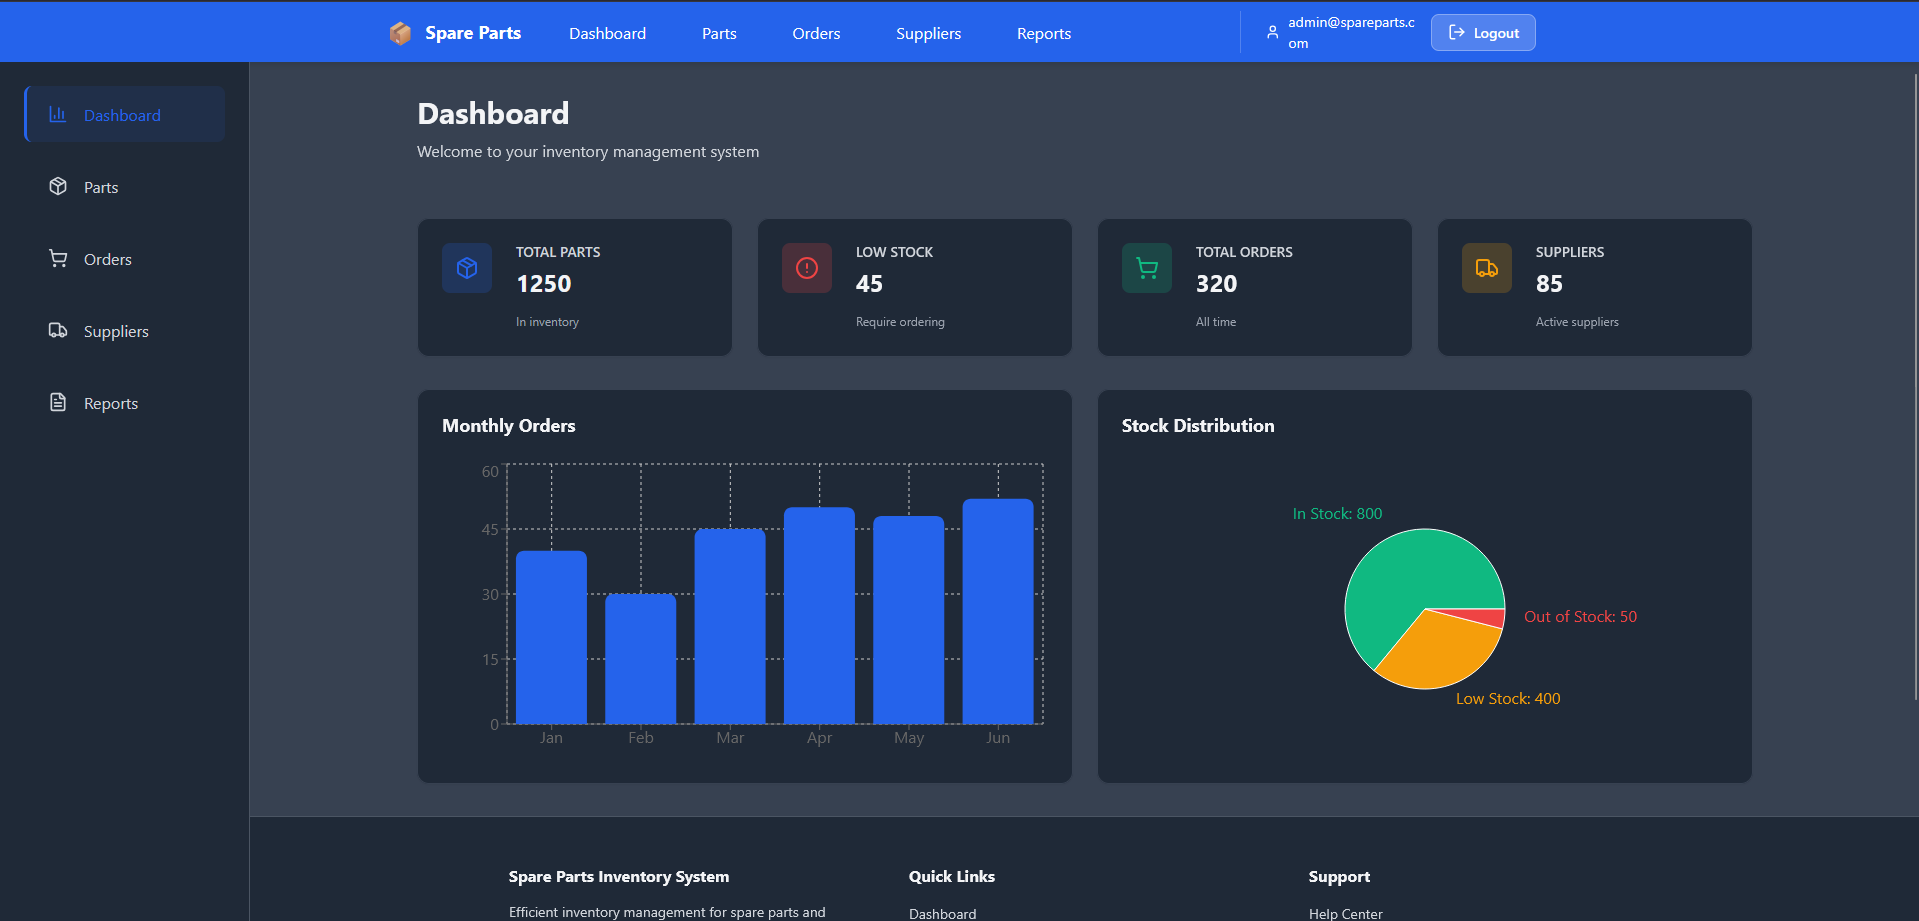
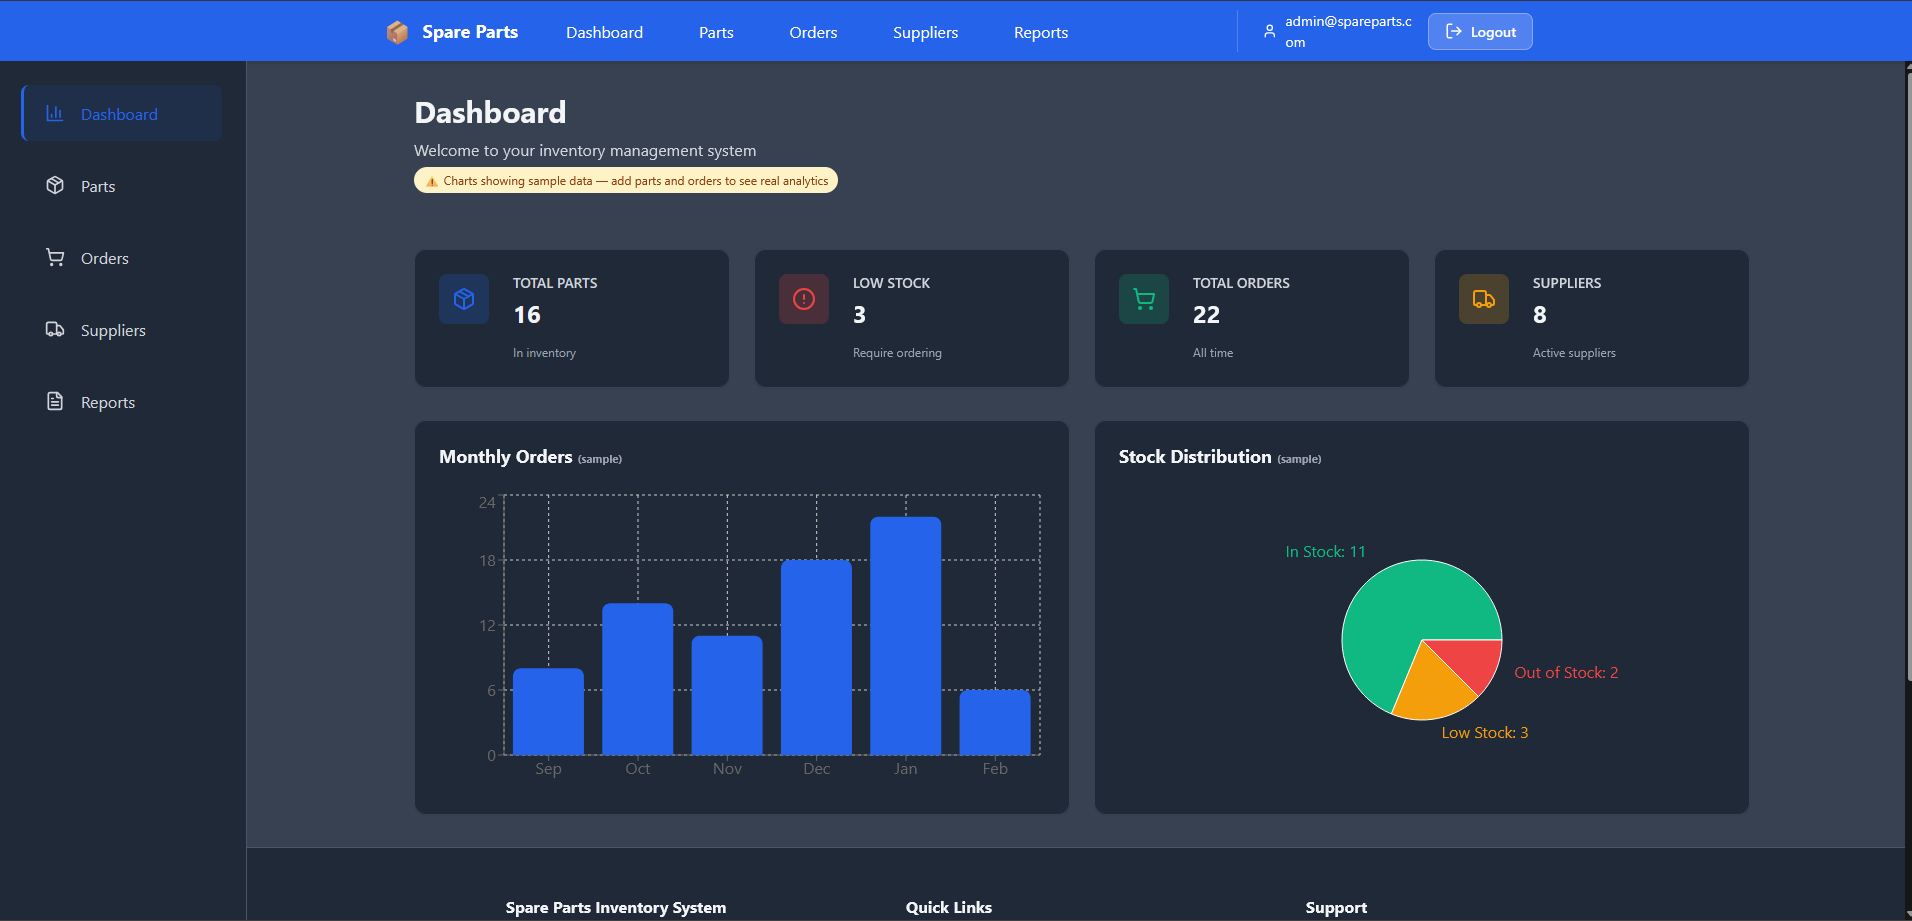
Spare-Parts-Inventory Project Update

diff --git a/src/index.css b/src/index.css
@@ -147,16 +147,84 @@ section { padding: 120px 5% 60px; max-width: 1200px; margin: 0 auto; }
 .progress-fill { height: 100%; background: var(--accent-blue); border-radius: 2px; transition: width 1s cubic-bezier(0.86, 0, 0.07, 1); }
 
 /* Projects Grid */
+.project-category { margin-bottom: 60px; }
+.project-category:last-child { margin-bottom: 0; }
+.category-title { 
+  font-size: 1.6rem; 
+  font-weight: 600; 
+  margin-bottom: 30px; 
+  color: var(--text-main); 
+  display: flex; 
+  align-items: center; 
+  gap: 12px; 
+  position: relative; 
+  width: fit-content;
+}
+.category-title i { color: var(--accent-blue); font-size: 1.3rem; }
+.category-title::after {
+  content: '';
+  position: absolute;
+  bottom: -6px;
+  left: 0;
+  width: 40px;
+  height: 3px;
+  background: linear-gradient(135deg, #60a5fa, #3b82f6);
+  border-radius: 2px;
+}
 .projects-grid { display: grid; grid-template-columns: repeat(auto-fit, minmax(340px, 1fr)); gap: 30px; }
 .project-card { display: flex; flex-direction: column; overflow: hidden; padding: 0; }
-.project-img-wrapper { width: 100%; height: 200px; border-bottom: 1px solid var(--border-color); overflow: hidden; background: #000;}
+.project-img-wrapper { width: 100%; height: 200px; border-bottom: 1px solid var(--border-color); overflow: hidden; background: #000; position: relative; }
 .project-img { width: 100%; height: 100%; object-fit: cover; transition: 0.4s; opacity: 0.8; }
 .project-card:hover .project-img { transform: scale(1.05); opacity: 1; }
+.platform-card {
+  position: absolute;
+  top: 12px;
+  right: 12px;
+  display: inline-flex;
+  align-items: center;
+  gap: 6px;
+  padding: 6px 12px;
+  border-radius: 20px;
+  font-size: 0.75rem;
+  font-weight: 700;
+  font-family: var(--font-mono);
+  letter-spacing: 0.05em;
+  text-transform: uppercase;
+  backdrop-filter: blur(12px);
+  -webkit-backdrop-filter: blur(12px);
+  z-index: 2;
+  transition: all 0.3s cubic-bezier(0.4, 0, 0.2, 1);
+  box-shadow: 0 4px 14px rgba(0, 0, 0, 0.5);
+}
+.platform-card.android {
+  background: rgba(16, 185, 129, 0.2);
+  color: #34d399;
+  border: 1px solid rgba(52, 211, 153, 0.4);
+}
+.platform-card.android i {
+  font-size: 0.9rem;
+  color: #34d399;
+}
+.platform-card.web {
+  background: rgba(59, 130, 246, 0.2);
+  color: #60a5fa;
+  border: 1px solid rgba(96, 165, 250, 0.4);
+}
+.platform-card.web i {
+  font-size: 0.85rem;
+  color: #60a5fa;
+}
+.project-card:hover .platform-card {
+  transform: translateY(-2px) scale(1.03);
+  box-shadow: 0 6px 20px rgba(0, 0, 0, 0.7);
+}
 .project-content { padding: 25px; display: flex; flex-direction: column; flex: 1; }
 .project-content h3 { font-size: 1.3rem; margin-bottom: 10px; }
 .project-content p { color: var(--text-muted); font-size: 0.95rem; margin-bottom: 25px; flex: 1; }
 .tags { display: flex; flex-wrap: wrap; gap: 8px; margin-bottom: 25px; }
 .tag { padding: 4px 10px; background: rgba(255,255,255,0.03); border: 1px solid var(--border-color); border-radius: 4px; font-size: 0.75rem; font-family: var(--font-mono); color: var(--text-muted); }
+.tag.tag-android { background: rgba(16, 185, 129, 0.1); border-color: rgba(52, 211, 153, 0.3); color: #34d399; }
+.tag.tag-web { background: rgba(59, 130, 246, 0.1); border-color: rgba(96, 165, 250, 0.3); color: #60a5fa; }
 .project-links-row { display: flex; gap: 12px; }
 .project-btn { 
   display: inline-flex; align-items: center; gap: 8px; font-size: 0.85rem; color: var(--text-main); text-decoration: none; 

diff --git a/src/components/Projects.jsx b/src/components/Projects.jsx
@@ -60,27 +60,6 @@ const Projects = () => {
             </div>
           </div>
 
-          {/* <div className="project-card glass-panel reveal">
-            <div className="project-img-wrapper">
-              <img src="/assets/cloudguard.png" alt="CloudGuard Sentinel" className="project-img"
-                onError={(e) => { e.target.src = 'https://images.unsplash.com/photo-1558494949-ef010cbdcc31?auto=format&fit=crop&w=800&q=80'; }} />
-            </div>
-            <div className="project-content">
-              <h3>CloudGuard Sentinel (2025)</h3>
-              <p>Real-time infrastructure monitoring platform delivering log ingestion, active anomaly alerts, and automatic load balancing configurations.</p>
-              <div className="tags">
-                <span className="tag">Go</span>
-                <span className="tag">Docker</span>
-                <span className="tag">AWS</span>
-                <span className="tag">Prometheus</span>
-              </div>
-              <div className="project-links-row">
-                <a href="https://github.com/SubLochan/cloudguard-sentinel" target="_blank" rel="noreferrer" className="project-btn">
-                  <i className="fa-brands fa-github"></i> Repository
-                </a>
-              </div>
-            </div>
-          </div> */}
         </div>
       </div>
 

diff --git a/src/components/Education.jsx b/src/components/Education.jsx
@@ -14,7 +14,7 @@ const Education = () => {
             <div className="timeline-date">Aug 2023 – Present</div>
             <h3>B.Tech Computer Science and Engineering</h3>
             <h4>Anurag University — Hyderabad, India</h4>
-            <p style={{ color: 'var(--accent-blue)', fontWeight: '600', marginTop: '10px' }}>CGPA: 8.55</p>
+            <p style={{ color: 'var(--accent-blue)', fontWeight: '600', marginTop: '10px' }}>CGPA: 8.50</p>
           </div>
         </div>
 
